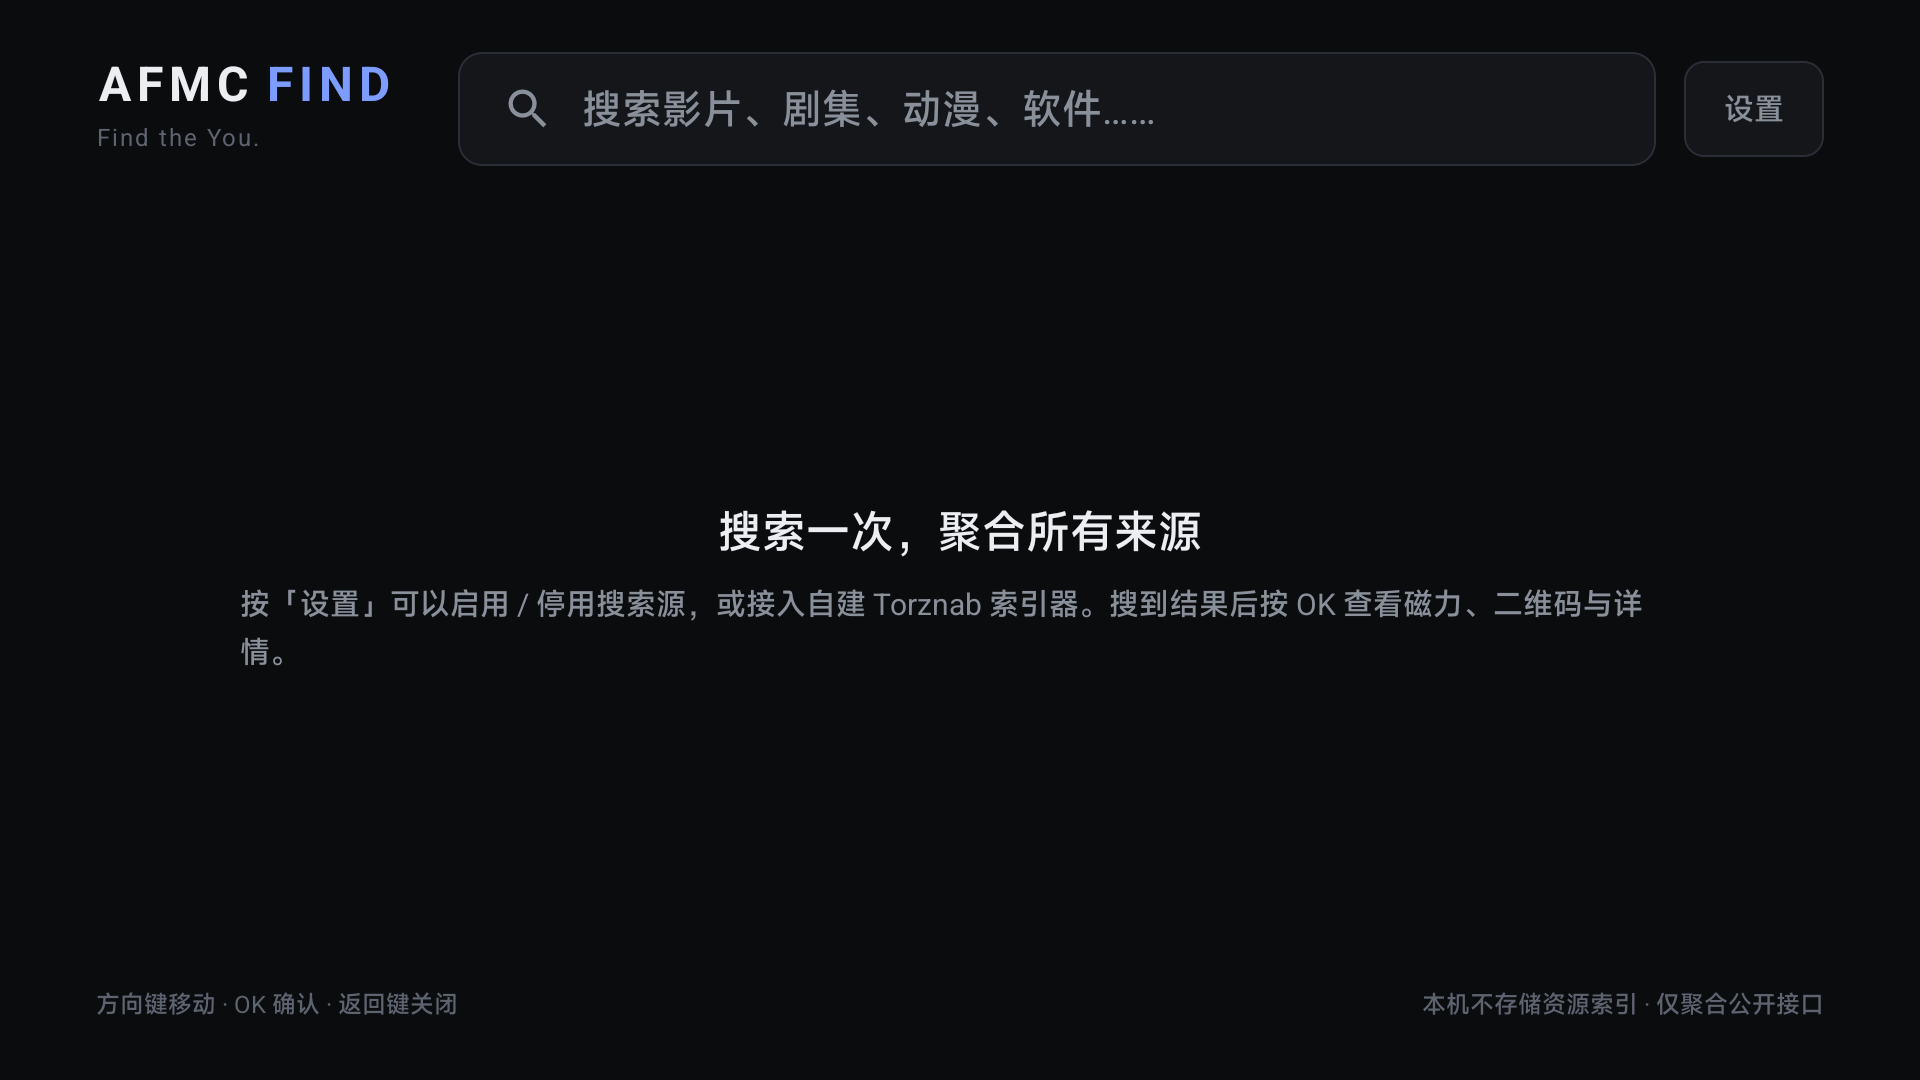
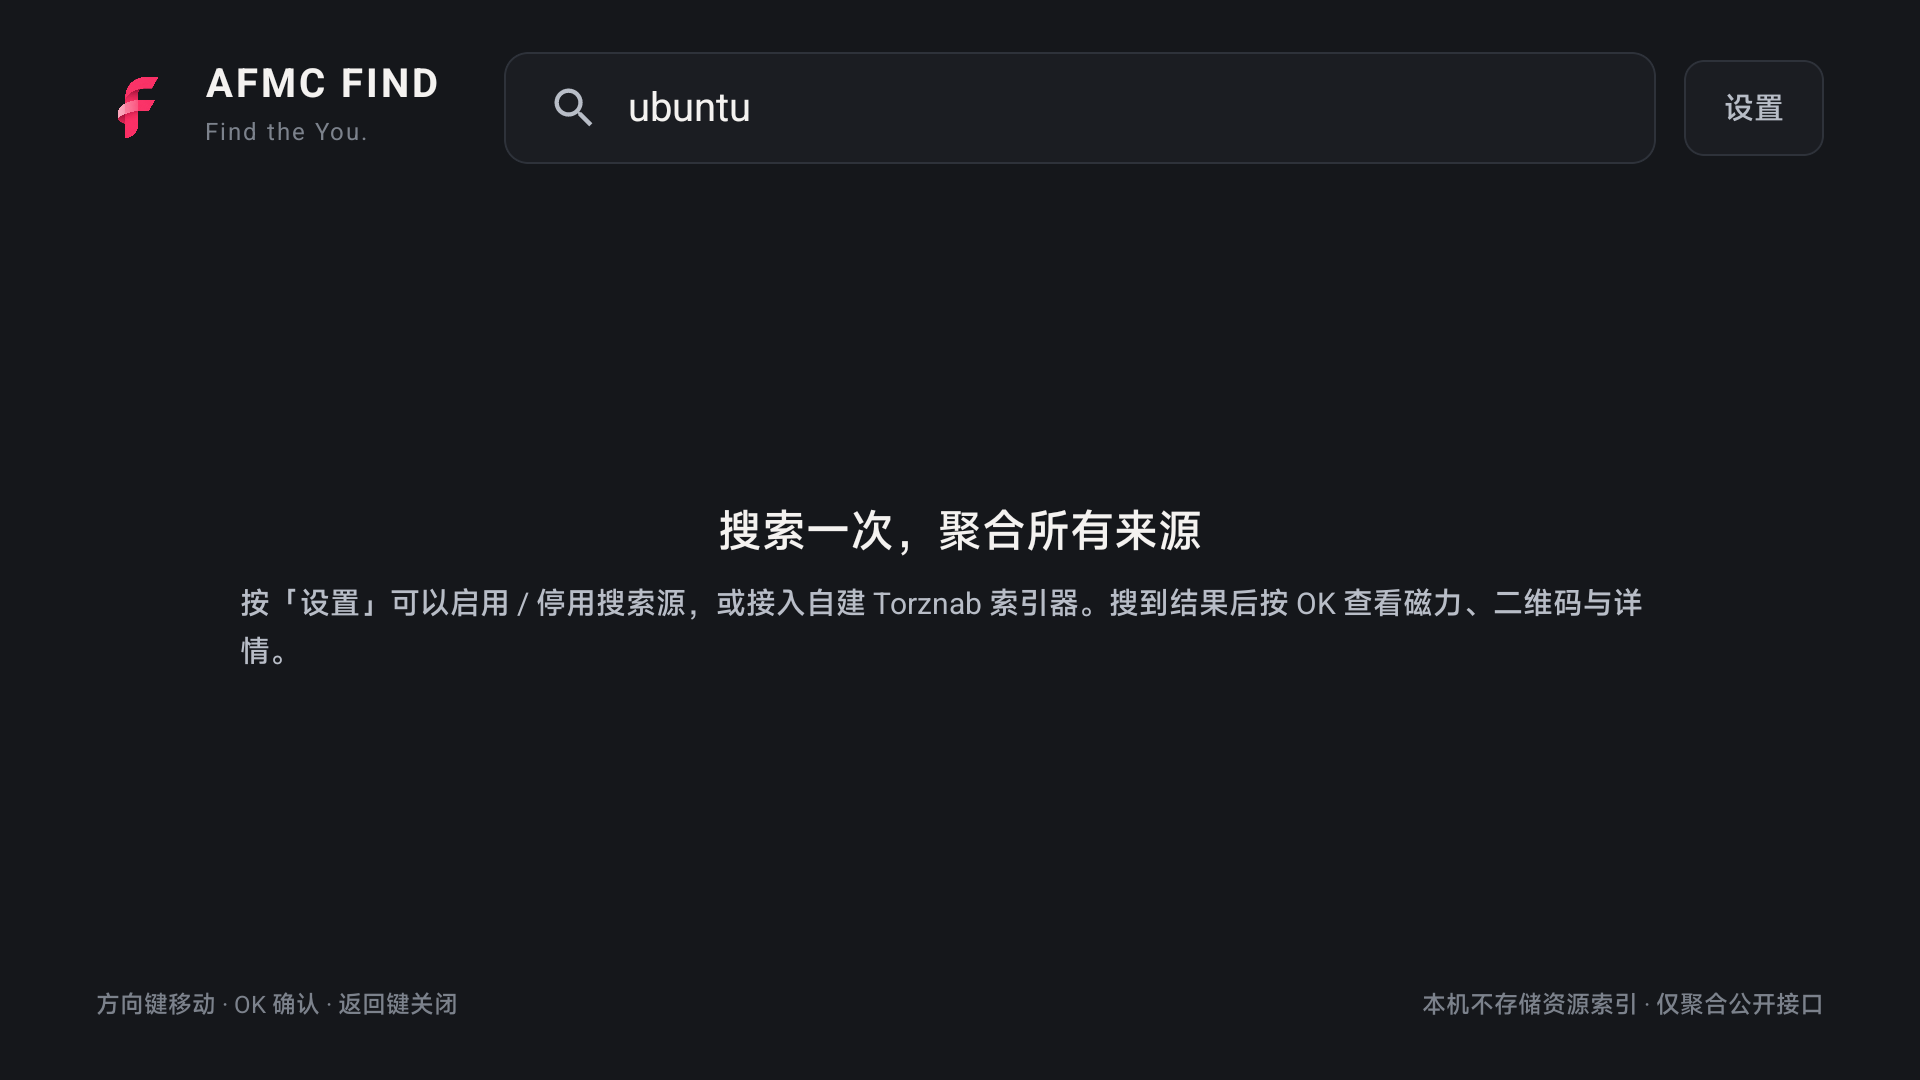
对齐桌面版品牌：粉色 F 标与 #F43F70 配色；详情页支持一键下载到夸克（复制磁力并拉起夸克 TV）

diff --git a/app/src/main/java/com/afmc/find/tv/ui/Overlays.kt b/app/src/main/java/com/afmc/find/tv/ui/Overlays.kt
@@ -138,16 +138,32 @@ fun DetailOverlay(hit: SearchHit, onClose: () -> Unit) {
             )
 
             Spacer(Modifier.height(24.dp))
-            Row(horizontalArrangement = Arrangement.spacedBy(12.dp)) {
+            Row(horizontalArrangement = Arrangement.spacedBy(10.dp)) {
+                val quarkIntent = remember { launcherIntent(context, "com.quark.yun.tv") }
                 ActionButton(
-                    text = "复制磁力",
+                    text = if (quarkIntent != null) "下载到夸克" else "打开磁力",
                     accent = true,
                     modifier = Modifier.focusRequester(firstFocus),
-                    onClick = { copyText(context, result.magnet, "已复制磁力链接") },
+                    onClick = {
+                        val magnet = result.magnet
+                        when {
+                            magnet.isNullOrBlank() -> Toast.makeText(context, "这条结果没有磁力链接", Toast.LENGTH_SHORT).show()
+                            quarkIntent != null -> {
+                                copyText(context, magnet, "磁力已复制，在夸克「离线下载」里粘贴")
+                                runCatching {
+                                    context.startActivity(quarkIntent.addFlags(Intent.FLAG_ACTIVITY_NEW_TASK))
+                                }.onFailure {
+                                    Toast.makeText(context, "无法打开夸克，磁力已复制", Toast.LENGTH_LONG).show()
+                                }
+                            }
+                            else -> openUri(context, magnet)
+                        }
+                    },
                 )
                 if (!result.magnet.isNullOrBlank()) {
+                    ActionButton("复制磁力", onClick = { copyText(context, result.magnet, "已复制磁力链接") })
                     ActionButton("二维码", onClick = { showQr = true })
-                    ActionButton("打开磁力", onClick = { openUri(context, result.magnet) })
+                    ActionButton("其他应用", onClick = { openUri(context, result.magnet) })
                 }
                 result.detailsUrl?.let { url ->
                     ActionButton("详情网页", onClick = { openUri(context, url) })
@@ -432,6 +448,21 @@ private fun copyText(context: Context, text: String?, toast: String) {
     val manager = context.getSystemService(Context.CLIPBOARD_SERVICE) as? ClipboardManager
     manager?.setPrimaryClip(ClipData.newPlainText("AFMC FIND", text))
     Toast.makeText(context, toast, Toast.LENGTH_SHORT).show()
+}
+
+/** Resolves an app launcher that only registers a Leanback category (e.g. Quark TV). */
+private fun launcherIntent(context: Context, packageName: String): Intent? {
+    val pm = context.packageManager
+    pm.getLaunchIntentForPackage(packageName)?.let { return it }
+    val leanback = Intent(Intent.ACTION_MAIN)
+        .addCategory(Intent.CATEGORY_LEANBACK_LAUNCHER)
+        .setPackage(packageName)
+    val info = pm.queryIntentActivities(leanback, 0).firstOrNull()?.activityInfo ?: return null
+    return Intent(Intent.ACTION_MAIN).apply {
+        addCategory(Intent.CATEGORY_LEANBACK_LAUNCHER)
+        component = android.content.ComponentName(info.packageName, info.name)
+        addFlags(Intent.FLAG_ACTIVITY_NEW_TASK)
+    }
 }
 
 private fun openUri(context: Context, uriText: String?) {

diff --git a/app/src/main/java/com/afmc/find/tv/ui/TvApp.kt b/app/src/main/java/com/afmc/find/tv/ui/TvApp.kt
@@ -1,5 +1,6 @@
 package com.afmc.find.tv.ui
 
+import androidx.compose.foundation.Image
 import androidx.compose.foundation.background
 import androidx.compose.foundation.horizontalScroll
 import androidx.compose.foundation.layout.Arrangement
@@ -38,11 +39,13 @@ import androidx.compose.ui.Modifier
 import androidx.compose.ui.focus.FocusRequester
 import androidx.compose.ui.focus.focusRequester
 import androidx.compose.ui.graphics.Color
+import androidx.compose.ui.res.painterResource
 import androidx.compose.ui.text.font.FontWeight
 import androidx.compose.ui.text.style.TextOverflow
 import androidx.compose.ui.unit.dp
 import androidx.compose.ui.unit.sp
 import androidx.lifecycle.viewmodel.compose.viewModel
+import com.afmc.find.tv.R
 import com.afmc.find.tv.SearchViewModel
 import com.afmc.find.tv.core.Ranking
 import com.afmc.find.tv.model.Categories
@@ -180,24 +183,20 @@ private fun Header(
     onSettingsClick: () -> Unit,
 ) {
     Row(verticalAlignment = Alignment.CenterVertically) {
+        Image(
+            painter = painterResource(R.drawable.brand_logo),
+            contentDescription = "AFMC FIND",
+            modifier = Modifier.size(42.dp),
+        )
+        Spacer(Modifier.width(12.dp))
         Column {
-            Row(verticalAlignment = Alignment.Bottom) {
-                Text(
-                    "AFMC",
-                    fontSize = 24.sp,
-                    fontWeight = FontWeight.Bold,
-                    letterSpacing = 3.sp,
-                    color = TextPrimary,
-                )
-                Spacer(Modifier.width(6.dp))
-                Text(
-                    "FIND",
-                    fontSize = 24.sp,
-                    fontWeight = FontWeight.Bold,
-                    letterSpacing = 3.sp,
-                    color = Accent,
-                )
-            }
+            Text(
+                "AFMC FIND",
+                fontSize = 20.sp,
+                fontWeight = FontWeight.Bold,
+                letterSpacing = 1.5.sp,
+                color = TextPrimary,
+            )
             Text("Find the You.", fontSize = 12.sp, color = TextDim, letterSpacing = 1.sp)
         }
 

diff --git a/app/src/main/java/com/afmc/find/tv/ui/Theme.kt b/app/src/main/java/com/afmc/find/tv/ui/Theme.kt
@@ -9,17 +9,17 @@ import androidx.compose.ui.text.TextStyle
 import androidx.compose.ui.text.font.FontWeight
 import androidx.compose.ui.unit.sp
 
-val Bg = Color(0xFF0B0C0E)
-val Surface = Color(0xFF141619)
-val SurfaceHigh = Color(0xFF1C1F24)
-val Stroke = Color(0xFF2A2E36)
-val Accent = Color(0xFF7C9CFF)
-val AccentSoft = Color(0xFFB9C8FF)
-val TextPrimary = Color(0xFFECEEF2)
-val TextMuted = Color(0xFF8A909A)
-val TextDim = Color(0xFF5E646F)
+val Bg = Color(0xFF15171B)
+val Surface = Color(0xFF1B1D22)
+val SurfaceHigh = Color(0xFF22262C)
+val Stroke = Color(0xFF2E323A)
+val Accent = Color(0xFFF43F70)
+val AccentSoft = Color(0xFFFFA3B5)
+val TextPrimary = Color(0xFFF4F2F0)
+val TextMuted = Color(0xFFB8BDC7)
+val TextDim = Color(0xFF7C828C)
 val Danger = Color(0xFFF87171)
-val Success = Color(0xFF6EE7B7)
+val Success = Color(0xFFADD8BE)
 
 private val Colors = darkColorScheme(
     primary = Accent,

diff --git a/README.md b/README.md
@@ -22,18 +22,22 @@
 - 可选接入自建 **Torznab / Jackett** 索引器（地址 + API Key，支持局域网 HTTP）。
 - 同一 infohash 只保留做种最好的一条；排序按“关键词覆盖率 → 名称顺序 → 年份/季集约束 → 做种 → 时间”。
 - 分类筛选（影视 / 动漫 / 音乐 / 软件 / 游戏 / 书籍 / 科研 / 其他）、仅看有做种、按相关度/做种/大小/时间排序。
-- 详情页：完整标题、来源、大小、做种、类别、日期、磁力；支持复制磁力、二维码（手机扫码取种）、打开磁力、打开详情网页。
+- 详情页：完整标题、来源、大小、做种、类别、日期、磁力；主按钮「下载到夸克」= 复制磁力并直接打开电视上的夸克网盘（在「离线下载」里粘贴），未安装夸克时回退为系统磁力打开。
+- 支持复制磁力、二维码（手机扫码取种）、其他应用打开、详情网页。
 - 设置页：逐源启用/停用、Torznab 配置；配置保存在本机 SharedPreferences。
 
 ## 已验证
 
+- 品牌：图标、Banner、界面强调色与桌面版对齐（粉色 F 标，`#F43F70`）。
 - 设备：小米电视 S Pro 65 Mini LED（`MiTV_MFTR0`，Android 14 / SDK 34，1080p，armeabi-v7a），ADB 安装运行。
+- 夸克：详情页「下载到夸克」已实测可拉起 `com.quark.yun.tv`（夸克网盘 TV 版），磁力同时写入剪贴板。
 - “ubuntu” 搜索：Knaben 54、BitSearch 100、海盗湾 100、Torrents.csv 25、动漫花园 2，去重排序后列表正常；详情页、二维码、设置开关与滚动均实测通过。
 - JVM 单测：词条规范化、匹配层级、做种加权、去重、磁力解析、RSS/Torznab、日期/大小解析全部通过；`LiveSourcesTest` 在开发机网络下 6/6 源可用。
 
 ## 已知限制
 
-- **无内置播放/边下边播**：本版本定位为“大屏搜索 + 磁力交付”。电视上没有能处理 `magnet:` 的应用时，请用二维码或复制磁力交给手机/下载器。
+- **无内置播放/边下边播**：本版本定位为“大屏搜索 + 磁力交付”，按需求不内置播放器。
+- **夸克只能“复制 + 打开”**：夸克网盘 TV 版不声明 magnet/分享 Intent（仅 `quicktv` 私有 scheme），无法把磁力直接塞进去；需要在夸克里登录后粘贴到「离线下载」。电视桌面图标是启动器缓存，重启电视后才会显示新 Banner。
 - **网络**：应用强制直连，不读取系统代理。若电视残留了指向 `127.0.0.1` 的全局代理（本机实测存在），其他应用会全部请求失败，本应用不受影响。Nyaa 在部分网络会被连接重置，状态栏会显示“Nyaa 失败”，不影响其他源。
 - 只做公开接口聚合，不内置任何账号、不做站内登录。
 
